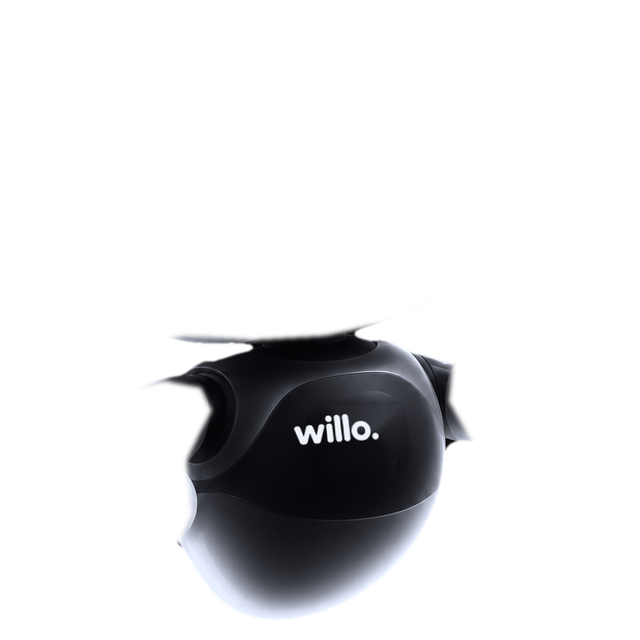
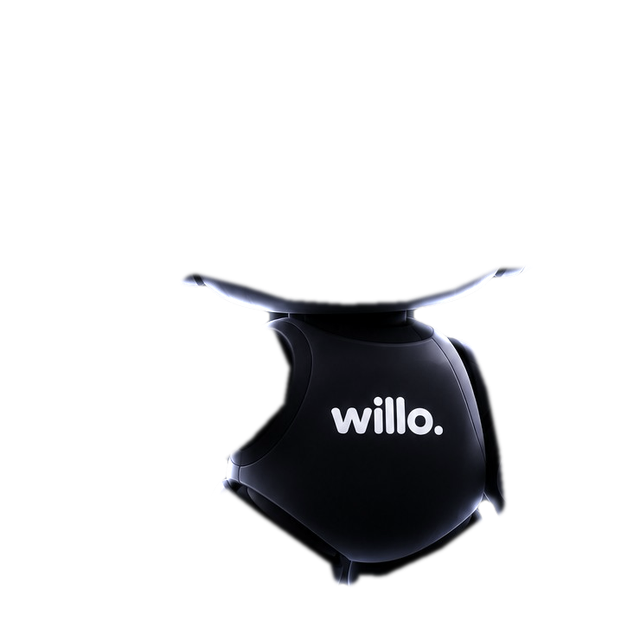
Willo takes the shape of the last reference: round head with headphones, an arm held out, a hand at his side and two legs, cut into six layers so the legs swing too. The eyes, the smile and the movements are refitted to the new figure

Changed region(s): [[0.25, 0.4062, 0.8125, 0.9688], [0.75, 0.4062, 0.8125, 0.4375]]

diff --git a/mobile/src/components/willo/WilloBot.tsx b/mobile/src/components/willo/WilloBot.tsx
@@ -15,9 +15,9 @@ import Svg, { Defs, Ellipse, Path, RadialGradient, Stop } from "react-native-svg
 import type { OrbMode } from "~/components/registro/ParticleOrb";
 
 /**
- * Willo the robot: a dark glass figure cut into four layers, head, body and two arms, all drawn
- * on the same square so they line up by themselves. His light is a cool grey, with no colour in
- * its reflections, so he sits well on any background; the only blue is in his eyes.
+ * Willo the robot: a dark figure cut into six layers, head, body, two arms and two legs, all
+ * drawn on the same square so they line up by themselves. His light is a cool grey, with no colour
+ * in its reflections, so he sits well on any background; the only blue is in his eyes.
  * The eyes and the mouth are not in the picture; they are drawn here, so they can move. Small,
  * he is only his head.
  *
@@ -29,25 +29,30 @@ import type { OrbMode } from "~/components/registro/ParticleOrb";
 
 const BODY = require("../../../assets/images/bot/body.png");
 const ARM = require("../../../assets/images/bot/arm.png");
-const LEFT = require("../../../assets/images/bot/left.png");
+const OTHER = require("../../../assets/images/bot/other.png");
+const LEG_L = require("../../../assets/images/bot/legl.png");
+const LEG_R = require("../../../assets/images/bot/legr.png");
 const HEAD = require("../../../assets/images/bot/head.png");
 
 /* Where things are on the square, as shares of its side. */
 const EYES = [
-  { x: 0.3647, y: 0.3247 },
-  { x: 0.5659, y: 0.2847 },
+  { x: 0.4351, y: 0.2892 },
+  { x: 0.6689, y: 0.2797 },
 ];
-const EYE_W = 0.072;
-const EYE_H = 0.168;
-const EYE_LEAN = "-8deg";
-const NECK = { x: 0.46, y: 0.5 };
-const SHOULDER = { x: 0.69, y: 0.6 };
-const LEFT_SHOULDER = { x: 0.335, y: 0.641 };
+const EYE_W = 0.062;
+const EYE_H = 0.124;
+const EYE_LEAN = "-2deg";
+const NECK = { x: 0.5405, y: 0.4964 };
+/* The arm he holds out, and the one that hangs. */
+const SHOULDER = { x: 0.4392, y: 0.5986 };
+const OTHER_SHOULDER = { x: 0.7365, y: 0.5716 };
+const HIP_L = { x: 0.4324, y: 0.7743 };
+const HIP_R = { x: 0.6486, y: 0.8284 };
 /* The middle of the mouth, under and between the eyes, on the tilt of the face. */
-const MOUTH = { x: 0.478, y: 0.378 };
+const MOUTH = { x: 0.5554, y: 0.3527 };
 const MOUTH_BOX = 0.2;
 /* The head alone: its middle, and how much of the side it takes. */
-const HEAD_ONLY = { x: 0.455, y: 0.29, span: 0.76 };
+const HEAD_ONLY = { x: 0.527, y: 0.254, span: 0.78 };
 const FULL_BODY_FROM = 110;
 
 const TAP_SLOP = 9;
@@ -298,13 +303,26 @@ export default function WilloBot({
     const t = clock.get();
     const calm = still.get() === 1 ? 0 : 1;
     const w = wave.get().on;
-    return { transform: [{ rotate: `${calm * (Math.sin(t * 1.15 + 0.6) * 2 + w * (Math.sin(t * 9) * 11 - 8) - hop.get() * 16 - reach.get() * 22 - joy.get() * 5)}deg` }] };
+    /* His hand is to the left of the shoulder, so going up is turning to the right. */
+    return { transform: [{ rotate: `${calm * (Math.sin(t * 1.15 + 0.6) * 2 + w * (Math.sin(t * 9) * 9 + 9) + hop.get() * 14 + reach.get() * 18 + joy.get() * 5)}deg` }] };
   });
 
-  const leftMove = useAnimatedStyle(() => {
+  const otherMove = useAnimatedStyle(() => {
     const t = clock.get();
     const calm = still.get() === 1 ? 0 : 1;
-    return { transform: [{ rotate: `${calm * (Math.sin(t * 1.15 + 2.2) * 2.4 + hop.get() * 15 + reach.get() * 24 + joy.get() * Math.sin(t * 11) * 4)}deg` }] };
+    return { transform: [{ rotate: `${calm * (Math.sin(t * 1.15 + 2.2) * 2.4 - hop.get() * 16 - reach.get() * 24 + joy.get() * Math.sin(t * 11) * 4)}deg` }] };
+  });
+
+  /* The legs hang and swing a little, out of step, and kick as he leaves the ground. */
+  const legLeft = useAnimatedStyle(() => {
+    const t = clock.get();
+    const calm = still.get() === 1 ? 0 : 1;
+    return { transform: [{ rotate: `${calm * (Math.sin(t * 1.3) * 2.6 + hop.get() * 11 - joy.get() * Math.sin(t * 9) * 3)}deg` }] };
+  });
+  const legRight = useAnimatedStyle(() => {
+    const t = clock.get();
+    const calm = still.get() === 1 ? 0 : 1;
+    return { transform: [{ rotate: `${calm * (Math.sin(t * 1.3 + 1.7) * 2.6 - hop.get() * 11 + joy.get() * Math.sin(t * 9) * 3)}deg` }] };
   });
 
   const eyes = useAnimatedStyle(() => {
@@ -328,9 +346,9 @@ export default function WilloBot({
     const open = talk.get();
     const glad = joy.get();
     const thin = small.get();
-    const half = side * (0.036 + glad * 0.014 - open * 0.008 - thin * 0.016);
-    const top = side * (0.012 + glad * 0.006 - open * 0.042 - thin * 0.01);
-    const low = side * (0.046 + glad * 0.03 + open * 0.05 - thin * 0.038);
+    const half = side * (0.036 + glad * 0.012 - open * 0.012 - thin * 0.018);
+    const top = side * (0.038 + glad * 0.006 - open * 0.066 - thin * 0.032);
+    const low = side * (0.076 + glad * 0.024 + open * 0.03 - thin * 0.068);
     const y = c - low / 4;
     return `M${(c - half).toFixed(2)} ${y.toFixed(2)}Q${c.toFixed(2)} ${(y + top).toFixed(2)} ${(c + half).toFixed(2)} ${y.toFixed(2)}Q${c.toFixed(2)} ${(y + low).toFixed(2)} ${(c - half).toFixed(2)} ${y.toFixed(2)}Z`;
   };
@@ -361,8 +379,8 @@ export default function WilloBot({
             <Svg width={side} height={side}>
               <Defs>
                 <RadialGradient id="bot-aura" cx="50%" cy="50%" r="50%">
-                  <Stop offset="0" stopColor="#B9C8EE" stopOpacity={0.16} />
-                  <Stop offset="0.7" stopColor="#B9C8EE" stopOpacity={0.05} />
+                  <Stop offset="0" stopColor="#B9C8EE" stopOpacity={0.24} />
+                  <Stop offset="0.7" stopColor="#B9C8EE" stopOpacity={0.08} />
                   <Stop offset="1" stopColor="#B9C8EE" stopOpacity={0} />
                 </RadialGradient>
                 <RadialGradient id="bot-floor" cx="50%" cy="50%" r="50%">
@@ -370,13 +388,15 @@ export default function WilloBot({
                   <Stop offset="1" stopColor="#A9BBEA" stopOpacity={0} />
                 </RadialGradient>
               </Defs>
-              <Ellipse cx={side * 0.47} cy={side * 0.46} rx={side * 0.5} ry={side * 0.5} fill="url(#bot-aura)" />
-              {whole && <Ellipse cx={side * 0.47} cy={side * 0.965} rx={side * 0.3} ry={side * 0.028} fill="url(#bot-floor)" />}
+              <Ellipse cx={side * 0.52} cy={side * 0.46} rx={side * 0.5} ry={side * 0.5} fill="url(#bot-aura)" />
+              {whole && <Ellipse cx={side * 0.54} cy={side * 0.982} rx={side * 0.3} ry={side * 0.018} fill="url(#bot-floor)" />}
             </Svg>
           </Animated.View>
 
+          {whole && <Animated.Image source={LEG_L} style={[layer, pivot(HIP_L), legLeft]} fadeDuration={0} />}
+          {whole && <Animated.Image source={LEG_R} style={[layer, pivot(HIP_R), legRight]} fadeDuration={0} />}
           {whole && <Image source={BODY} style={layer} fadeDuration={0} />}
-          {whole && <Animated.Image source={LEFT} style={[layer, pivot(LEFT_SHOULDER), leftMove]} fadeDuration={0} />}
+          {whole && <Animated.Image source={OTHER} style={[layer, pivot(OTHER_SHOULDER), otherMove]} fadeDuration={0} />}
           {whole && <Animated.Image source={ARM} style={[layer, pivot(SHOULDER), armMove]} fadeDuration={0} />}
 
           <Animated.View style={[layer, pivot(NECK), headMove]}>
@@ -398,10 +418,10 @@ export default function WilloBot({
                 </View>
               </Animated.View>
             ))}
-            <Animated.View style={[{ position: "absolute", left: MOUTH.x * side - box / 2, top: MOUTH.y * side - box / 2, width: box, height: box, transform: [{ rotate: "-11deg" }] }, mouth]}>
+            <Animated.View style={[{ position: "absolute", left: MOUTH.x * side - box / 2, top: MOUTH.y * side - box / 2, width: box, height: box, transform: [{ rotate: "-2deg" }] }, mouth]}>
               <Svg width={box} height={box}>
-                <AnimatedPath animatedProps={mouthGlow} fill="#3E8BFF" fillOpacity={0.3} stroke="#3E8BFF" strokeOpacity={0.3} strokeWidth={side * 0.024} strokeLinejoin="round" />
-                <AnimatedPath animatedProps={mouthProps} fill="#E4F2FF" stroke="#E4F2FF" strokeWidth={side * 0.005} strokeLinejoin="round" />
+                <AnimatedPath animatedProps={mouthGlow} fill="#3E8BFF" fillOpacity={0.3} stroke="#3E8BFF" strokeOpacity={0.3} strokeWidth={side * 0.034} strokeLinejoin="round" />
+                <AnimatedPath animatedProps={mouthProps} fill="#E4F2FF" stroke="#E4F2FF" strokeWidth={side * 0.014} strokeLinejoin="round" />
               </Svg>
             </Animated.View>
           </Animated.View>
